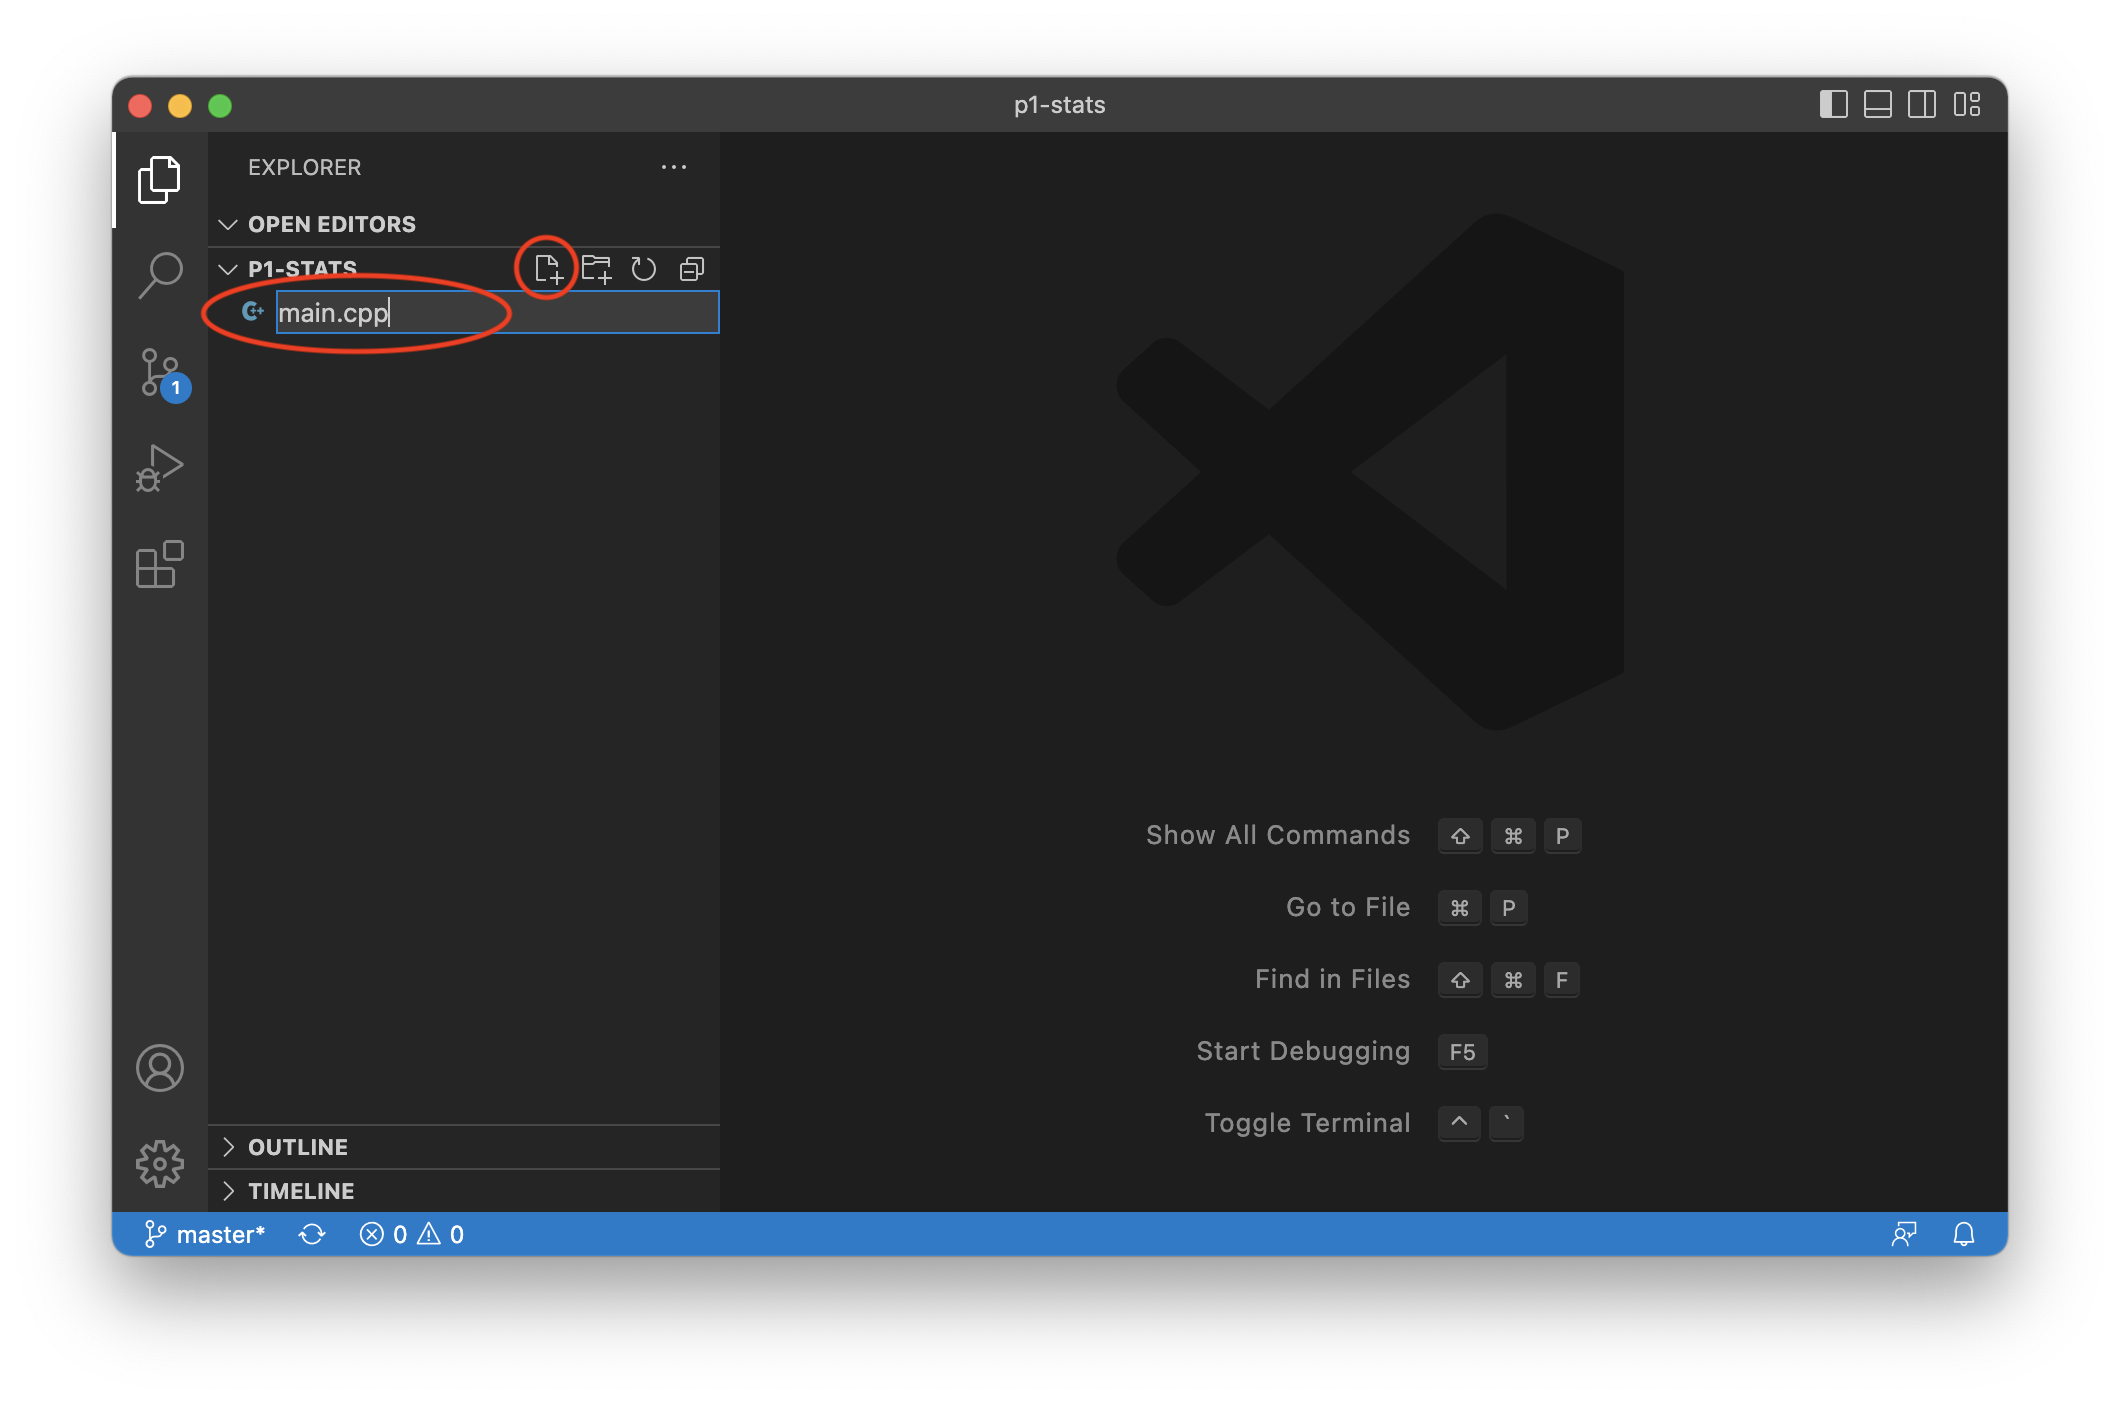
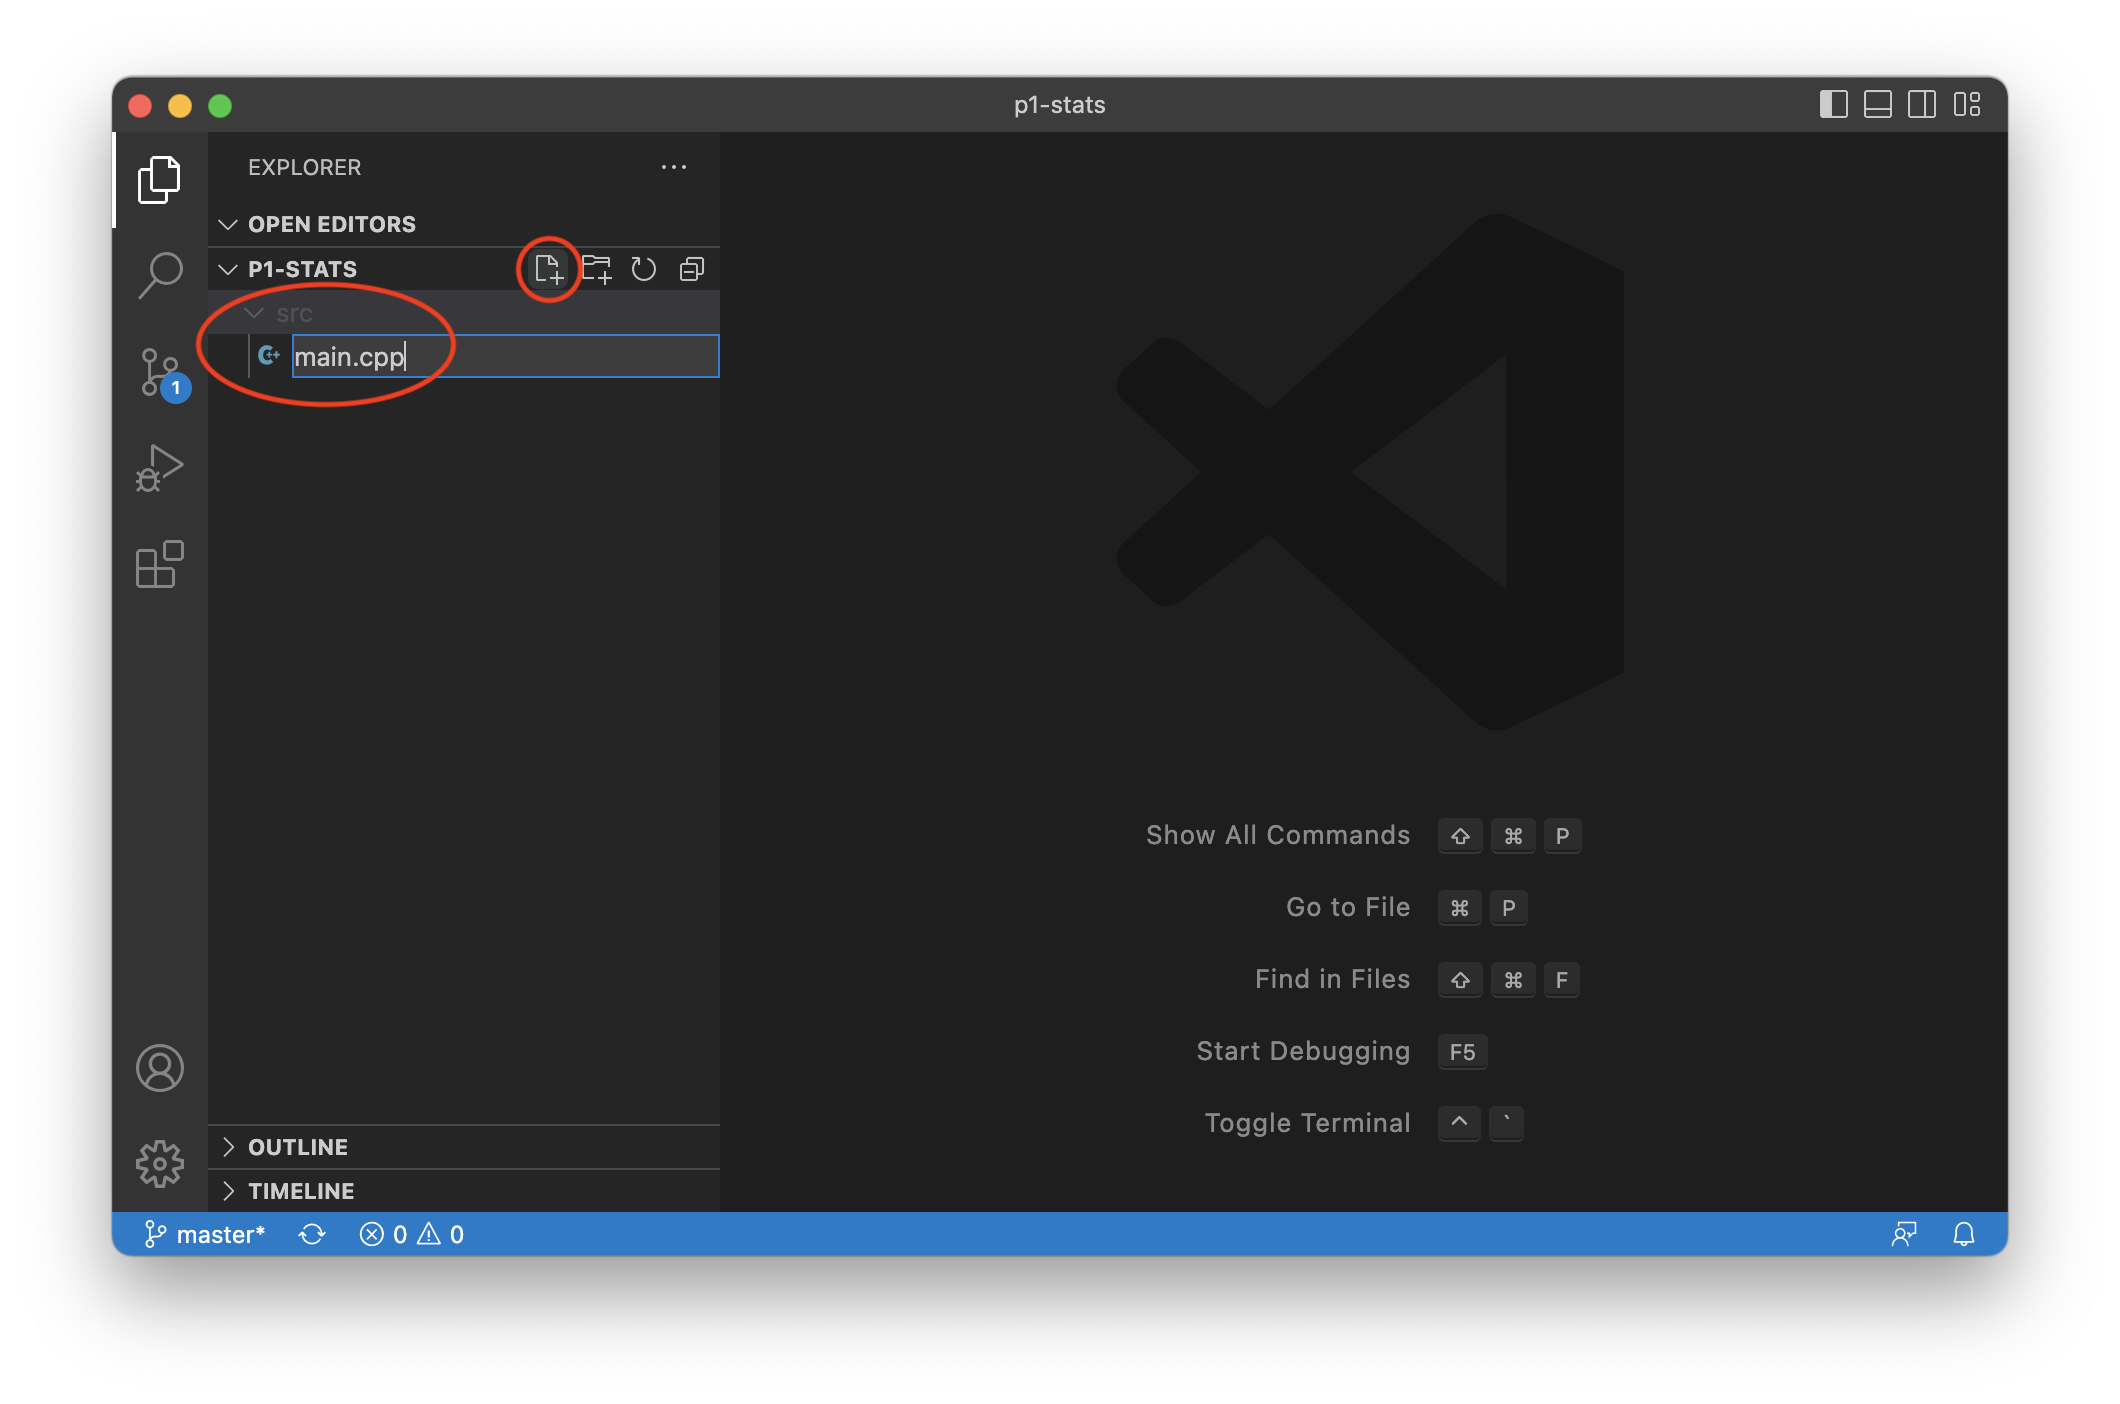
Fine tune "Add existing files"

Changed region(s): [[0.0934, 0.1531, 0.2802, 0.3063], [0.3113, 0.2144, 0.3425, 0.245]]

diff --git a/docs/setup_vscode.md b/docs/setup_vscode.md
@@ -165,9 +165,15 @@ Open your project folder by selecting `File` > `Open Folder...` > navigate to th
 
 We recommend putting source code in a subdirectory called `src`.  Create a subdirectory if needed.
 
+<img src="images/vscode024.png" width="768px" />
+
 Select the add file icon and give it a name, e.g., `main.cpp`.
 
 <img src="images/vscode025.png" width="768px" />
+
+<div class="primer-spec-callout warning icon-warning" markdown="1">
+**Pitfall:** Make sure your new file is in the `src` subdirectory.
+</div>
 
 Copy-paste this Hello World program into your `main.cpp`.
 ```c++
@@ -181,7 +187,7 @@ int main() {
 {: data-title="main.cpp" }
 
 ### Add existing files
-If you have starter files, add them to your project directory.  We'll download some files and put them in a subdirectory called `src`.
+If you have starter files, add them to your project `src` subdirectory.
 
 Download starter files, unpack, and move to `src` subdirectory.  Your URL or folder might be different.  **Pro-tip:** [copy/paste instructions for WSL](setup_wsl.html#how-do-i-copy-and-paste).
 ```console
@@ -193,12 +199,13 @@ $ mv starter-files src
 $ rm starter-files.tar.gz
 ```
 
-At this point, you should have existing files in a `src` subdirectory.
+At this point, you should see your new files in the `src` subdirectory.
 ```console
 $ tree
 .
 └── src
     ├── Makefile
+    ├── main.cpp
     ├── main_test.in
     ├── main_test.out.correct
     ├── main_test_data.tsv
@@ -212,6 +219,7 @@ $ tree
 In VS Code, open your project folder by selecting `File` > `Open Folder...` > navigate to the `p1-stats` folder or from the command line.
 
 You should see your files.
+
 <img src="images/vscode026.png" width="768px" />
 
 #### Rename files
